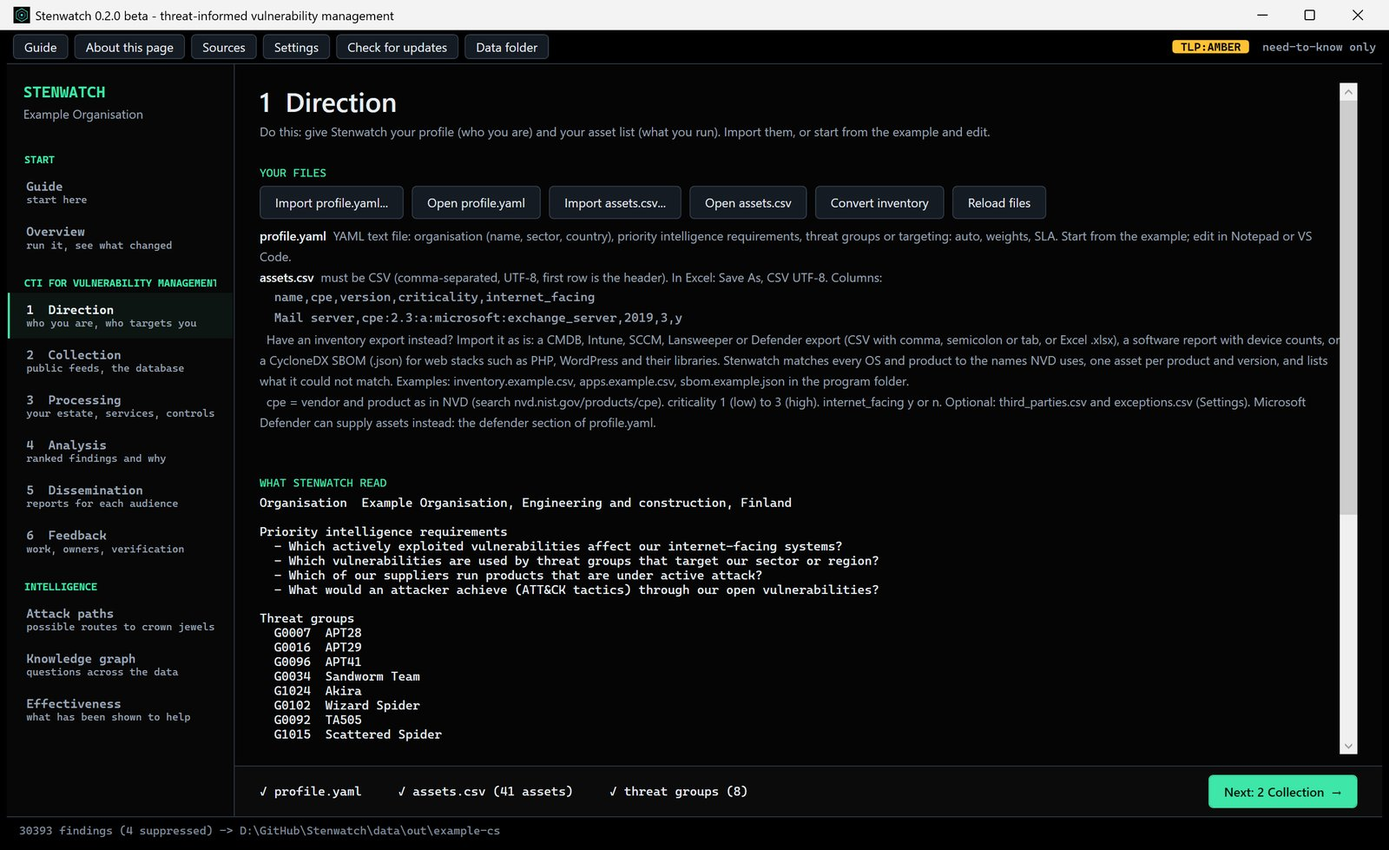
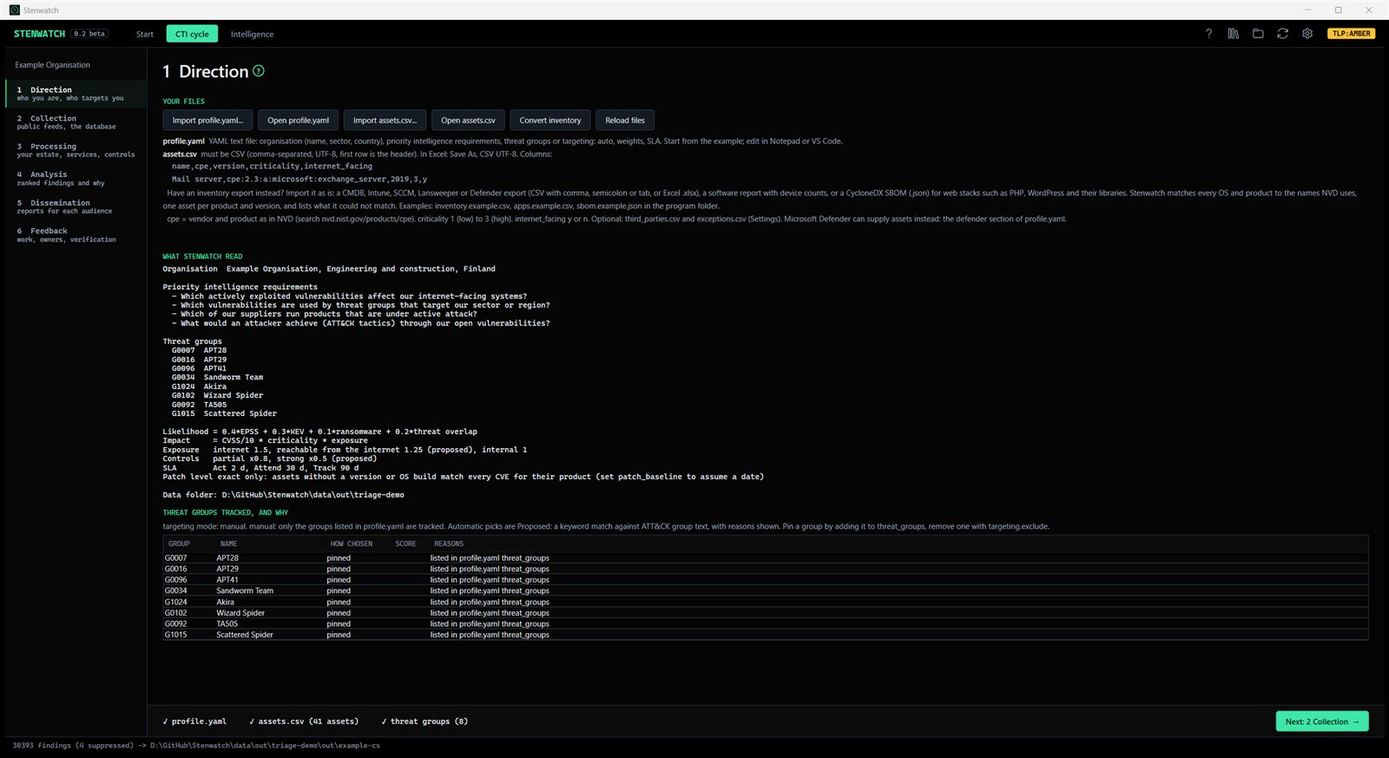
Keep organisation details off cloud LLMs; Sources in Settings; README, live page and screenshots for Morning triage
- Cloud LLM prompts no longer carry machine counts, the full rule (which can hold them) or sector/country; only a local model gets them. Tests pin it.
- Sources editor moved from Direction to the top of Settings (it had landed on the wrong page)
- Triage run disables the page, not the window (a disabled rail rendered white)
- Fictional example export (examples/defender-export.example.csv: public CVEs, invented machine counts)
- README: Morning triage section, workspaces, privacy wording; live page: workspaces, triage screenshot, AI wording; all app screenshots retaken from fictional data with the new UI

Changed region(s): [[0.0, 0.0, 1.0, 0.9897], [0.0, 0.9278, 0.4062, 0.9897], [0.4375, 0.9278, 0.5312, 0.9588]]

diff --git a/docs/index.html b/docs/index.html
@@ -209,9 +209,10 @@ h1 .w{display:inline-block;opacity:0;translate:0 .5em;filter:blur(6px);animation
 <section id="see"><div class="wrap">
   <div class="rv idx mono"><span>03 — Interface</span></div>
   <h2 class="rv">See it working</h2>
-  <p style="max-width:680px">The desktop app follows the intelligence cycle: six steps on the left, each telling you what it still needs, and a green Next button when it is done. Screenshots use the bundled Example Organisation, not real data. Hover for colour.</p>
+  <p style="max-width:680px">Three workspaces in the toolbar: <b>Start</b> (Guide, Overview and Morning triage), the <b>CTI cycle</b> (six steps, each telling you what it still needs, with a green Next button when it is done) and <b>Intelligence</b>. A small ? beside anything explains it. Screenshots use the bundled Example Organisation, not real data. Hover for colour.</p>
   <div class="rv shots" style="margin-top:22px">
-    <figure class="cell wide"><img src="img/app-overview.jpg" alt="Stenwatch desktop app, Overview: the six-step rail and the decision tiers counted by CVE" loading="lazy"><figcaption>Overview / the whole cycle in one click</figcaption></figure>
+    <figure class="cell wide"><img src="img/app-triage.jpg" alt="Morning triage: a Microsoft Defender export turned into ranked fix actions with tier, feeds, reason and an intel card with numbered sources" loading="lazy"><figcaption>Morning triage / your Defender export, ranked, with the sources behind each fix</figcaption></figure>
+    <figure class="cell"><img src="img/app-overview.jpg" alt="Overview: Start, CTI cycle and Intelligence workspaces in the toolbar, decision tiers counted by CVE" loading="lazy"><figcaption>Overview / the whole cycle in one click</figcaption></figure>
     <figure class="cell"><img src="img/app-direction.jpg" alt="Direction: import the profile and asset list, with the file formats explained" loading="lazy"><figcaption>1 Direction / who you are, who targets you</figcaption></figure>
     <figure class="cell"><img src="img/app-processing.jpg" alt="Processing: services, crown jewels, links and controls, mostly picked from lists" loading="lazy"><figcaption>3 Processing / your business in four short tables</figcaption></figure>
     <figure class="cell"><img src="img/app-analysis.jpg" alt="Analysis: ranked findings, the selected one explained in separate cards" loading="lazy"><figcaption>4 Analysis / every finding explained</figcaption></figure>
@@ -232,7 +233,7 @@ h1 .w{display:inline-block;opacity:0;translate:0 .5em;filter:blur(6px);animation
       <li><b>Threat-informed.</b> Ranks by what the groups that target your sector and country actually use.</li>
       <li><b>Shows its working.</b> Evidence, public source and confidence behind every decision.</li>
       <li><b>Beyond the agent.</b> Network devices, appliances and suppliers count too, straight from an inventory export.</li>
-      <li><b>Better together.</b> Stenwatch can read Defender's device inventory for exact patch levels.</li>
+      <li><b>Better together.</b> Stenwatch can read Defender's device inventory for exact patch levels, and Morning triage ranks Defender's vulnerability export with what national CERTs, CISA, Microsoft and Chrome say each morning.</li>
     </ul>
   </div>
 </div></section>
@@ -246,8 +247,8 @@ h1 .w{display:inline-block;opacity:0;translate:0 .5em;filter:blur(6px);animation
       <p>Your list of systems says exactly where you are weak, so Stenwatch treats it that way. It runs on your own machine and only downloads public information.</p>
     </div>
     <ul class="rv list">
-      <li><b>Runs locally.</b> Nothing about your organisation is uploaded anywhere.</li>
-      <li><b>Explainable.</b> Every ranking shows the sum behind it. No black box, no AI guesswork in the scoring.</li>
+      <li><b>Runs locally.</b> Nothing about your organisation is uploaded. If you switch on a cloud AI, it sees only public advisory text and product names; restricted (TLP:AMBER) text goes to a local model or nowhere.</li>
+      <li><b>Explainable.</b> Every ranking shows the sum or the rule behind it. No black box, no AI guesswork in the scoring: an optional AI only reads advisories and writes text, and every claim it keeps cites its source.</li>
       <li><b>Repeatable.</b> The same information always gives the same answer.</li>
       <li><b>Reports for everyone.</b> A detailed view for analysts and a one-page summary for managers.</li>
     </ul>

diff --git a/src/Stenwatch.App/MainWindow.xaml b/src/Stenwatch.App/MainWindow.xaml
@@ -109,9 +109,6 @@
             <!-- 1 Direction -->
             <TabItem Tag="1 Direction. Pillars 3 (threat-informed), 7 (adversary focus). Who you are, who targets you, and what you need to know. Everything the scoring uses lives in profile.yaml. With targeting mode auto, threat groups are chosen for your sector and country from MITRE ATT&amp;CK and refreshed whenever ATT&amp;CK is synced."><ScrollViewer VerticalScrollBarVisibility="Auto"><StackPanel>
                 <StackPanel Orientation="Horizontal" Margin="0,0,0,10"><TextBlock Text="1  Direction" FontSize="26" FontWeight="SemiBold"/><local:HelpButton Title="1  Direction" Text="Do this: give Stenwatch your profile (who you are) and your asset list (what you run). Import them, or start from the example and edit."/></StackPanel>
-                <StackPanel Orientation="Horizontal"><TextBlock Text="INTELLIGENCE SOURCES" Style="{StaticResource H}"/>
-                    <local:HelpButton x:Name="SourcesHelp" Title="Sources" Text="Advisory feeds Morning triage reads (Feeds). Add any RSS or Atom feed, for example your national CERT.&#10;Grade A-F: how much its word counts. An 'actively exploited' claim from grade A or B means Act; from C to F it means Attend.&#10;TLP: CLEAR may go to a cloud LLM, AMBER only to a model on this machine (llm.txt), RED never to any LLM.&#10;CVE posts only: skip items that name no CVE (vendor blogs)."/></StackPanel>
-                <StackPanel x:Name="SourcesPanel"/>
                 <TextBlock Text="YOUR FILES" Style="{StaticResource H}"/>
                 <WrapPanel>
                     <Button Content="Import profile.yaml..." Click="ImportProfile"/><Button Content="Open profile.yaml" Click="OpenProfile"/>
@@ -300,6 +297,9 @@
             <!-- Settings -->
             <TabItem Tag="Settings. Import your files, store API keys in Windows Credential Manager, check for a newer version."><ScrollViewer VerticalScrollBarVisibility="Auto"><StackPanel MaxWidth="980" HorizontalAlignment="Left">
                 <StackPanel Orientation="Horizontal" Margin="0,0,0,10"><TextBlock Text="Settings" FontSize="26" FontWeight="SemiBold"/><local:HelpButton Title="Settings" Text="Bring your own files into Stenwatch, store API keys, and check for a newer version. Files are copied into the data folder; edits made there in any editor are picked up when you return to this window."/></StackPanel>
+                <StackPanel Orientation="Horizontal"><TextBlock Text="INTELLIGENCE SOURCES" Style="{StaticResource H}"/>
+                    <local:HelpButton x:Name="SourcesHelp" Title="Sources" Text="Advisory feeds Morning triage reads (Feeds). Add any RSS or Atom feed, for example your national CERT.&#10;Grade A-F: how much its word counts. An 'actively exploited' claim from grade A or B means Act; from C to F it means Attend.&#10;TLP: CLEAR may go to a cloud LLM, AMBER only to a model on this machine (llm.txt), RED never to any LLM.&#10;CVE posts only: skip items that name no CVE (vendor blogs)."/></StackPanel>
+                <StackPanel x:Name="SourcesPanel"/>
                 <TextBlock Text="YOUR FILES" Style="{StaticResource H}"/>
                 <StackPanel x:Name="FilesPanel"/>
                 <TextBlock Text="CONTEXT CSV (imported into the database)" Style="{StaticResource H}"/>

diff --git a/src/Stenwatch.Core/TriageLlm.cs b/src/Stenwatch.Core/TriageLlm.cs
@@ -29,7 +29,8 @@ public static class TriageLlm
     }
     public static string Model => Cfg("model", "STENWATCH_LLM_MODEL", DefaultModel);
     public static string Url => Cfg("url", "STENWATCH_LLM_URL", DefaultUrl).TrimEnd('/');
-    static bool Local => Uri.TryCreate(Url, UriKind.Absolute, out var u) && u.IsLoopback;
+    /// <summary>A model on this machine. Only then may organisation details (machine counts, sector, country) go into a prompt.</summary>
+    public static bool Local => Uri.TryCreate(Url, UriKind.Absolute, out var u) && u.IsLoopback;
     /// <summary>True when a call can be made: a local endpoint, or an OpenRouter key.</summary>
     public static bool Ready => Local || Secrets.Get(KeyName) is { Length: > 0 };
 
@@ -145,7 +146,7 @@ public static class TriageLlm
         {
             var evidence = string.Join("\n", send.Select(r => $"[{r.N}] {r.Source} (grade {r.Grade}{(r.Date != "" ? ", " + r.Date : "")}): {r.Claim.Replace("<", "&lt;")}"));
             var reply = await Ask(http, CardPrompt.Replace("{org}", org),
-                $"Fix action: {a.Product}{(a.Fix != "" ? " (update to " + a.Fix + ")" : "")}, {a.Rows.Count} CVEs on {a.Exposed} machines, tier {a.Tier}.\n<untrusted>\n{evidence}\n</untrusted>");
+                $"Fix action: {a.Product}{(a.Fix != "" ? " (update to " + a.Fix + ")" : "")}, {a.Rows.Count} CVEs{(Local ? $" on {a.Exposed} machines" : "")}, tier {a.Tier}.\n<untrusted>\n{evidence}\n</untrusted>");
             var cited = Intel.Cited(reply, send.Select(r => r.N));
             if (cited == "") { log?.Invoke($"  LLM card for {a.Product} had no cited lines; plain card kept"); return a.Card; }
             cache[key] = cited; File.WriteAllText(file, JsonSerializer.Serialize(cache));
@@ -180,8 +181,8 @@ public static class TriageLlm
         if (asked.Count == 0) return (plain, "template");
         try
         {
-            var facts = JsonSerializer.Serialize(asked.Select(a => new { product = a.Product, update_to = a.Fix, machines = a.Exposed, cves = a.Rows.Count,
-                deadline = a.Tier == "Act" ? "within 48 hours" : "next patch cycle", reason = a.Rule,
+            var facts = JsonSerializer.Serialize(asked.Select(a => new { product = a.Product, update_to = a.Fix, machines = Local ? a.Exposed : (int?)null, cves = a.Rows.Count,
+                deadline = a.Tier == "Act" ? "within 48 hours" : "next patch cycle", reason = Local ? a.Rule : a.Label, // the full rule can carry a machine count
                 intelligence = a.Card.Split('\n').Take(3) }));
             var reply = await Ask(http, "You write a short, polite email from the information security team to the IT patching team in plain English, under 180 words. " +
                 "Use only the facts given: never add machines, versions, dates or threats that are not in them. Start with a Subject line. List each product once with what to do and by when. No markdown.",

diff --git a/src/Stenwatch.Tests/TriageLlmTests.cs b/src/Stenwatch.Tests/TriageLlmTests.cs
@@ -43,11 +43,11 @@ public class TriageLlmTests
 
     class Fake : HttpMessageHandler
     {
-        public int Calls; readonly Func<string> content;
+        public int Calls; public string Sent = ""; readonly Func<string> content;
         public Fake(Func<string> content) => this.content = content;
         protected override Task<HttpResponseMessage> SendAsync(HttpRequestMessage r, CancellationToken c)
         {
-            Calls++;
+            Calls++; Sent = r.Content!.ReadAsStringAsync(c).Result;
             var body = System.Text.Json.JsonSerializer.Serialize(new { choices = new[] { new { message = new { content = content() } } } });
             return Task.FromResult(new HttpResponseMessage(HttpStatusCode.OK) { Content = new StringContent(body, Encoding.UTF8, "application/json") });
         }
@@ -77,7 +77,9 @@ public class TriageLlmTests
         var plain = TriageLlm.ItNote(actions, new DateOnly(2026, 10, 29));
         Assert.Contains("Microsoft Edge: update to 148.0.1", plain); Assert.Contains("about 150 machines", plain);
 
-        var (ok, src) = await TriageLlm.ItNoteWithLlm(actions, new DateOnly(2026, 10, 29), new HttpClient(new Fake(() => "Subject: Patching\nPlease update Microsoft Edge to 148.0.1.")));
+        var noteFake = new Fake(() => "Subject: Patching\nPlease update Microsoft Edge to 148.0.1.");
+        var (ok, src) = await TriageLlm.ItNoteWithLlm(actions, new DateOnly(2026, 10, 29), new HttpClient(noteFake));
+        Assert.DoesNotContain("150", noteFake.Sent); // the machine count stays off a cloud model
         Assert.StartsWith("LLM", src);
         var (fallback, src2) = await TriageLlm.ItNoteWithLlm(actions, new DateOnly(2026, 10, 29), new HttpClient(new Fake(() => "Subject: Patching\nPlease update the browser.")));
         Assert.Equal(plain, fallback); Assert.Contains("failed", src2);

diff --git a/src/Stenwatch.App/MainWindow.Triage.cs b/src/Stenwatch.App/MainWindow.Triage.cs
@@ -44,7 +44,7 @@ public partial class MainWindow
     {
         if (triExport == null && File.Exists(TriFolderFile) && Newest(File.ReadAllText(TriFolderFile).Trim()) is { } f) triExport = f; // the morning habit: save the export, open the page, Run
         if (triExport == null || !File.Exists(triExport)) { TriSummary.Text = "Choose the export first."; return; }
-        TriSummary.Text = "Working..."; Status("triage running"); IsEnabled = false;
+        TriSummary.Text = "Working..."; Status("triage running"); Pages.IsEnabled = false; // not the window: a disabled rail renders white
         try
         {
             tri = await DefenderTriage.Run(new(triExport, data, Db, TriFeeds.IsChecked == true, TriLlm.IsChecked == true, triMails.ToList()), log: m => Dispatcher.Invoke(() => Status(m)));
@@ -52,7 +52,7 @@ public partial class MainWindow
         }
         catch (Exception ex) when (ex is IOException or InvalidDataException or InvalidOperationException or Microsoft.Data.Sqlite.SqliteException)
         { TriSummary.Text = "Could not triage: " + ex.Message; Status("triage failed"); }
-        finally { IsEnabled = true; }
+        finally { Pages.IsEnabled = true; }
     }
 
     void ShowTriage()

diff --git a/src/Stenwatch.Core/DefenderTriage.cs b/src/Stenwatch.Core/DefenderTriage.cs
@@ -279,7 +279,7 @@ public static class DefenderTriage
         if (o.UseLlm && TriageLlm.Ready) // cards for what needs a decision; ponytail: top 6 only, free models are slow
         {
             var prof = Path.Combine(o.Data, "profile.yaml");
-            var org = File.Exists(prof) && Profile.Load(prof).Organisation is { Sector.Length: > 0 } og ? $"a {og.Sector} organisation in {og.Country}" : "the organisation";
+            var org = TriageLlm.Local && File.Exists(prof) && Profile.Load(prof).Organisation is { Sector.Length: > 0 } og ? $"a {og.Sector} organisation in {og.Country}" : "the organisation";
             foreach (var a in actions.Where(x => x.Tier is "Act" or "Attend" && !x.Snoozed).Take(6).ToList())
                 actions[actions.IndexOf(a)] = a with { Card = await TriageLlm.IntelCard(a, org, o.Data, http, Note) };
         }

diff --git a/src/Stenwatch.Tests/IntelTests.cs b/src/Stenwatch.Tests/IntelTests.cs
@@ -107,6 +107,7 @@ public class IntelTests
         var card = await TriageLlm.IntelCard(a, "a finance organisation in Finland", dir, new HttpClient(fake));
         Assert.StartsWith("Exploited: CERT-EU says yes [1].", card); Assert.DoesNotContain("APT99", card);
         Assert.Contains("1 TLP:AMBER or RED", card); Assert.DoesNotContain("sector", fake.LastBody!);
+        Assert.DoesNotContain("50 machines", fake.LastBody!); // organisation details never go to a cloud model
         await TriageLlm.IntelCard(a, "a finance organisation in Finland", dir, new HttpClient(fake));
         Assert.Equal(1, fake.Calls); // second time from intel-cache.json
     }

diff --git a/README.md b/README.md
@@ -17,15 +17,15 @@ From every CVE in the world to the few that matter to *your* organisation, with 
 
 *Stenwatch* is a narrow watch: it watches the whole global vulnerability feed and narrows it to what, in your estate, needs action now, and why.
 
-![Stenwatch desktop app, Overview: the CTI lifecycle on the left, decision tiers counted by CVE](docs/img/app-overview.jpg)
+![Stenwatch desktop app, Morning triage: a Microsoft Defender export turned into ranked fix actions, each with its reason and sources](docs/img/app-triage.jpg)
 
-| Analysis: every finding explained | Knowledge graph: who could use what, where |
+| Overview: the whole cycle in one click | Knowledge graph: who could use what, where |
 |---|---|
-| ![Analysis page: ranked findings, and the selected one explained in cards: what it is, is it exploited, why this priority, who uses it, what to do, how sure](docs/img/app-analysis.jpg) | ![Knowledge graph: threat groups, ATT&CK techniques, urgent CVEs and your assets as a node-link map](docs/img/app-graph.jpg) |
-| **Processing: your business in four short tables** | **Dissemination: one result, every audience** |
-| ![Processing page: services with criticality and assets, pick lists and common entries](docs/img/app-processing.jpg) | ![Dissemination page: the full intelligence report, and every output with Open and Save as](docs/img/app-dissemination.jpg) |
+| ![Overview: Start, CTI cycle and Intelligence workspaces in the toolbar, decision tiers counted by CVE](docs/img/app-overview.jpg) | ![Knowledge graph: threat groups, ATT&CK techniques, urgent CVEs and your assets as a node-link map](docs/img/app-graph.jpg) |
+| **Analysis: every finding explained** | **Dissemination: one result, every audience** |
+| ![Analysis page: ranked findings, and the selected one explained in cards: what it is, is it exploited, why this priority, who uses it, what to do, how sure](docs/img/app-analysis.jpg) | ![Dissemination page: the full intelligence report, and every output with Open and Save as](docs/img/app-dissemination.jpg) |
 
-<sub>Screenshots use the bundled fictional Example Organisation, not real data.</sub>
+<sub>Screenshots use the bundled fictional Example Organisation and example Defender export, not real data.</sub>
 
 ## Why
 
@@ -37,17 +37,29 @@ About 40,000 CVEs are published every year. Most teams rank them by CVSS, which 
 
 Every finding gets one of four decisions: **Act** (within 48 h) · **Attend** (next patch cycle) · **Track** · **Ignore**.
 
+## Morning triage: your Defender export, ranked
+
+Microsoft Defender lists every CVE on your devices, but with CVSS alone hundreds look urgent and its own exploit flags are often empty. **Morning triage** takes Defender's *Vulnerabilities → Export* file as it is and turns it into a short list of **fix actions** ("update Chrome to 156.0.8078.47: 4 CVEs, 412 machines"), each with a tier and the rule that set it:
+
+- **Act** if CISA KEV lists one of its CVEs, or a grade A–B source says it is actively exploited (English or Finnish wording).
+- **Attend** if an advisory names it, a working exploit exists, MITRE ATT&CK links a threat group to it, EPSS is 5 % or more, or it is high severity on an internet-facing product on 100+ machines.
+- **Track** / **Ignore** otherwise.
+
+It reads free sources each morning: **NCSC-FI, CERT-EU, CISA, Microsoft MSRC (exploited CVEs) and Chrome Releases**, and any RSS or Atom feed you add, each with a reliability grade and a TLP. Every fix action gets an **intel card** of cited lines (what the sources say, [n] = which source). You can mark a row Agree, Raise, Lower or Snooze; the mark is kept for tomorrow, and tomorrow's run shows what changed. Outputs: a one-page briefing, an Excel file and a ready-to-send note to IT.
+
+An optional LLM (OpenRouter's free model, or a model on your own machine) reads advisories that name no CVE, including Finnish ones, writes the intel card and the IT note. It **never sets a tier**, a claim is kept only if the source text contains it, and TLP:AMBER text goes only to a local model. The ladder is a fixed rule set and has **not been validated against outcomes**. Try it on [`examples/defender-export.example.csv`](examples/defender-export.example.csv); guide: [MORNING-TRIAGE.md](docs/guides/MORNING-TRIAGE.md).
+
 ## Install
 
 1. Download `Stenwatch-Setup-0.2.0-beta.exe` from the [release page](https://github.com/idiljot-singh/Stenwatch/releases/tag/v0.2.0-beta) and run it. No admin rights; .NET is included.
 2. The beta is unsigned, so Windows shows a blue "unknown publisher" screen: choose **More info → Run anyway**, or ask IT to allow-list the file by its SHA-256 (in the release notes).
-3. The app opens on **Guide**. Tick **Example Organisation** on Overview to try every page with fictional data, or follow the six steps with your own.
+3. The app opens on **Guide**. The toolbar has three workspaces: **Start** (Guide, Overview, Morning triage), **CTI cycle** (the six steps) and **Intelligence**. Tick **Example Organisation** on Overview to try every page with fictional data, or open Morning triage with your Defender export. Every **?** explains the thing next to it.
 
 Your files live in `%APPDATA%\Stenwatch` and survive updates. To update, use **Check for updates** in the toolbar, or run the newer Setup over the old one.
 
 ## How it works: the intelligence cycle
 
-The left rail is the CTI lifecycle. Each step shows at the bottom what it still needs; the **Next** button turns green when it is done.
+The **CTI cycle** workspace is the intelligence lifecycle. Each step shows at the bottom what it still needs; the **Next** button turns green when it is done.
 
 | Step | What you do | What Stenwatch does |
 |---|---|---|
@@ -58,7 +70,7 @@ The left rail is the CTI lifecycle. Each step shows at the bottom what it still 
 | **5 Dissemination** | Open or export | Full intelligence report, findings report, management brief (HTML and PDF), dashboard, CSV, STIX 2.1, ATT&CK Navigator layer |
 | **6 Feedback** | Assign tasks, claim fixes | Turns priorities into tasks with deadlines; a fix counts only when a later run no longer finds the CVE |
 
-The **Intelligence** pages fill in after every rank: a knowledge-graph map (threat group → technique → CVE → your asset, with links to MITRE ATT&CK and NVD), possible attack paths to your crown jewels, and what has been shown to help.
+The **Intelligence** workspace fills in after every rank: a knowledge-graph map (threat group → technique → CVE → your asset, with links to MITRE ATT&CK and NVD), possible attack paths to your crown jewels, and what has been shown to help.
 
 ```
 likelihood = 0.4·EPSS + 0.3·in KEV + 0.1·ransomware + 0.2·used by a tracked threat group
@@ -74,8 +86,10 @@ Either Stenwatch's own format (`name,cpe,version,criticality,internet_facing`, s
 
 | | |
 |---|---|
+| **Morning triage** | Defender export → fix actions with tier, reason, cited sources, your marks and a daily diff |
+| **Graded, TLP-aware sources** | National CERTs, CISA, Microsoft, Chrome and your own feeds, each with a grade and a TLP |
 | **Threat-informed** | Ranks by what the groups that target *your* sector and country actually use, not by severity alone |
-| **Explainable** | Every priority shows its evidence, the public source, how confident Stenwatch is, and the formula. The same inputs give the same ranking; an optional LLM only drafts the management brief |
+| **Explainable** | Every priority shows its evidence, the public source, how confident Stenwatch is, and the formula. The same inputs give the same ranking; an optional LLM only reads and writes text (brief, advisories, intel cards), never ranks |
 | **Business context** | Services, crown jewels, links between assets and controls that count only while their evidence is dated and current |
 | **Attack paths and knowledge graph** | Possible routes from the internet to your crown jewels; which group could use which CVE on which asset |
 | **Defend** | Every finding lists MITRE D3FEND countermeasures and ATT&CK mitigations |
@@ -85,7 +99,7 @@ Either Stenwatch's own format (`name,cpe,version,criticality,internet_facing`, s
 
 ## Stenwatch and Microsoft Defender Vulnerability Management
 
-They do different jobs and work well together. Defender's agent knows exactly which software and patch level each enrolled device has. Stenwatch does not scan: it ranks what you run by what is being exploited, by whom, and how that matters to your business, shows its working for every decision, covers what has no agent (network devices, appliances, suppliers), and writes reports for each audience. Stenwatch can read Defender's device inventory (the `defender` section of `profile.yaml`), which removes the guesswork about patch levels. Whether Stenwatch's ranking finds the exploited CVEs earlier than other methods has not been shown yet; see [what has and has not been shown to help](docs/evaluation.md).
+They do different jobs and work well together. Defender's agent knows exactly which software and patch level each enrolled device has. Stenwatch does not scan: it ranks what you run by what is being exploited, by whom, and how that matters to your business, shows its working for every decision, covers what has no agent (network devices, appliances, suppliers), and writes reports for each audience. Stenwatch can read Defender's device inventory (the `defender` section of `profile.yaml`), which removes the guesswork about patch levels, and **Morning triage** reads Defender's vulnerability export directly. Whether Stenwatch's ranking finds the exploited CVEs earlier than other methods has not been shown yet; see [what has and has not been shown to help](docs/evaluation.md).
 
 ## Build from source
 
@@ -119,12 +133,13 @@ Stenwatch/
 | [The 15 pillars](docs/pillars.md) | See what CTI-driven vulnerability management needs and where Stenwatch stands on each |
 | [Evaluation](docs/evaluation.md) | Know what has and has not been shown to help |
 | [CUSTOMISE.md](docs/guides/CUSTOMISE.md) | Set Stenwatch up for **your** organisation, step by step |
+| [MORNING-TRIAGE.md](docs/guides/MORNING-TRIAGE.md) | Use the Defender export, sources, grades, TLP and the LLM each morning |
 | [WALKTHROUGH.md](docs/guides/WALKTHROUGH.md) ([PDF](docs/guides/WALKTHROUGH.pdf)) | Understand how every stage works and why |
 | [SECURITY.md](SECURITY.md) | Report a vulnerability in Stenwatch |
 
 ## Your data stays yours
 
-Everything of yours (profile, asset and supplier lists, decisions, the database and every output) lives in your data folder and is **git-ignored** in this repository: it describes where your organisation is vulnerable. Only public feeds are downloaded; nothing about your estate is sent anywhere unless you enable a cloud LLM for the brief, and even then the input is redacted.
+Everything of yours (profile, asset and supplier lists, decisions, the database and every output) lives in your data folder and is **git-ignored** in this repository: it describes where your organisation is vulnerable. Only public feeds are downloaded; nothing about your estate is sent anywhere unless you enable a cloud LLM. Even then only public advisory text and product names go out: no machine counts, no sector or country, no TLP:AMBER or RED text (those go to a local model only, or nowhere), and pasted mail is redacted.
 
 ## Author
 

diff --git a/docs/guides/MORNING-TRIAGE.md b/docs/guides/MORNING-TRIAGE.md
@@ -20,8 +20,9 @@ Take the Microsoft Defender vulnerability export, add what the feeds and nationa
 - **Feeds** fetches every enabled source (Settings, Intelligence sources, or the toolbar's sources icon): NCSC-FI, CERT-EU, CISA advisories, Microsoft MSRC (only CVEs Microsoft marks exploited) and Chrome Releases. Add any RSS or Atom feed. Each source has a **grade** (A-F: "actively exploited" from A or B means Act, from C-F means Attend) and a **TLP** (CLEAR may go to a cloud LLM, AMBER only to a local model, RED to no LLM). Advisories that match nothing in the export are listed, in case Defender does not see that product.
 - **Threat groups** come from MITRE ATT&CK (cve.db) and from advisory text that names a group. A group linked to a CVE raises the fix action to at least Attend. Never from a model's memory.
 - **Intel card** (Detail tab): what the evidence says, one cited line per source ([n] = the numbered source listed under it). With LLM on, the top six Act/Attend actions get a written card (Exploited / Who / Real-world severity / Why it matters here); a line without a valid citation, or that is not one of those four, is dropped. Cards are cached in `intel-cache.json`.
-- **LLM** (OpenRouter, `nvidia/nemotron-3-ultra-550b-a55b:free`, no credits needed; the paid id without `:free` returns HTTP 402 until credits are bought; free requests are slow, up to a few minutes for a run): reads advisories that name no CVE, extracts CVEs and products, writes a two-sentence English summary, and drafts the note to IT. It cannot set a tier. A CVE id or an "actively exploited" claim is accepted only if the advisory text contains it (the claim needs a quote). Any failure leaves the rule-based result. Add the key on the Settings page. To change model or endpoint, put lines in `llm.txt` in the data folder, for example `model=...` and `url=http://localhost:11434/v1` for a local Ollama (no key, nothing leaves the machine; try `qwen2.5:7b-instruct`, Finnish is weaker in small models). Only public advisory text is sent, with IP addresses and host names removed.
+- **LLM** (OpenRouter, `nvidia/nemotron-3-ultra-550b-a55b:free`, no credits needed; the paid id without `:free` returns HTTP 402 until credits are bought; free requests are slow, up to a few minutes for a run): reads advisories that name no CVE, extracts CVEs and products, writes a two-sentence English summary, and drafts the note to IT. It cannot set a tier. A CVE id or an "actively exploited" claim is accepted only if the advisory text contains it (the claim needs a quote). Any failure leaves the rule-based result. Add the key on the Settings page. To change model or endpoint, put lines in `llm.txt` in the data folder, for example `model=...` and `url=http://localhost:11434/v1` for a local Ollama (no key, nothing leaves the machine; try `qwen2.5:7b-instruct`, Finnish is weaker in small models). A cloud model gets only public advisory text and product names: no machine counts, no sector or country (those go only to a local model), and pasted mail has IP addresses and host names removed.
 - **Advisory...** takes a saved `.txt` or `.eml`. Try `examples/advisory.example.txt` (fictional, Finnish).
+- To try without your own data: **Export...** and choose `examples/defender-export.example.csv` (public CVEs, invented machine counts).
 
 ## Limits, stated plainly
 - The ladder is a fixed rule set and has **not been validated against outcomes**. It says why, it does not claim to be right.

diff --git a/examples/README.md b/examples/README.md
@@ -18,6 +18,7 @@ Its business runs on servers and network drives: project and CAD data on Windows
 | `inventory.example.csv` | C# edition | The raw inventory export the asset list comes from: 2,844 hosts, one row each. Try Convert inventory on it. |
 | `apps.example.csv` | C# edition | An Intune-style "discovered apps" report: semicolon-separated, one row per program and version with a device count. |
 | `sbom.example.json` | C# edition | A CycloneDX SBOM of the customer portal: PHP, WordPress, OpenSSL and libraries a host inventory cannot see. |
+| `defender-export.example.csv` | Morning triage | A fictional Microsoft Defender vulnerability export: 17 public CVEs (Chrome, Edge, Firefox, Windows 11, 7-Zip, PHP, OpenSSL) with invented machine counts. |
 | `advisory.example.txt` | Morning triage | A fictional Finnish advisory email to try "Add advisory email" with (it names CVE-2026-9998 and says it is actively exploited). |
 | `evaluation/` | C# edition | The published evaluation results (docs/evaluation.md), shown on Effectiveness until you run the evaluation yourself. |
 
